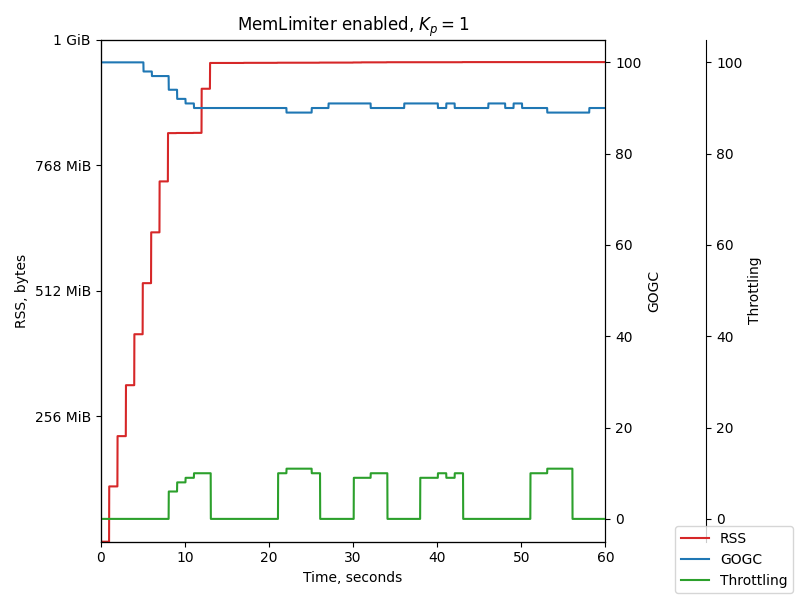
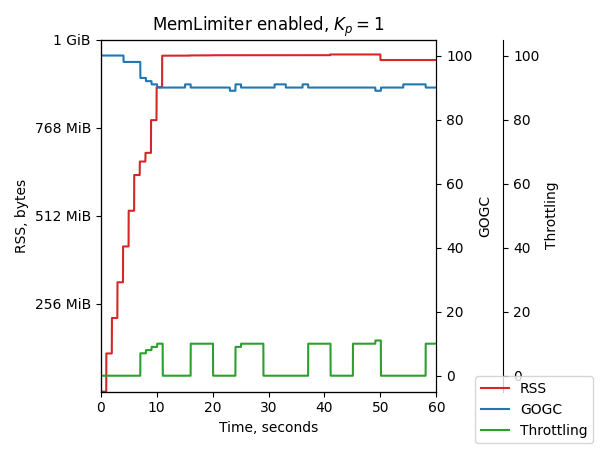
MLN-666 | refactor: more small plots

Changed region(s): [[0.0, 0.0311, 0.99, 0.9956]]

diff --git a/test/allocator/analyze/render.py b/test/allocator/analyze/render.py
@@ -21,7 +21,7 @@ def bytes_major_formatter(x, pos):
 def single_report(report: Report):
     df = report.df
 
-    fig, ax = plt.subplots(figsize=(8, 6))
+    fig, ax = plt.subplots(figsize=(6, 4.5))
     ax.set_xlim(0, 60)
 
     ax.set_xlabel('Time, seconds')

diff --git a/README.md b/README.md
@@ -85,6 +85,8 @@ There are several key settings in MemLimiter [configuration](controller/nextgc/c
 * `RSSLimit`
 * `DangerZoneGC` 
 * `DangerZoneThrottling` 
+* `Period`
+* `WindowSize`
 * `Coefficient` ($K_{p}$)
 
 You have to pick them empirically for your service. The settings must correspond to the business logic features of a particular service and to the workload expected.
@@ -95,7 +97,9 @@ Settings ranges:
 * $RSS_{limit} == {1G}$
 * $DangerZoneGC == 50%$
 * $DangerZoneThrottling == 90%$
-* $K_{p} \in {0, 1, 5, 10, 50, 100}$
+* $Period == 100ms$
+* $WindowSize == 20$
+* $K_{p} \in \{0, 1, 5, 10, 50, 100\}$
 
 These plots may give you some inspiration on how $K_{p}$ value affects the physical memory consumption other things being equal:
 
@@ -108,7 +112,7 @@ These plots may give you some inspiration on how $K_{p}$ value affects the physi
 
 And the summary plot with RSS consumption depending on $K_{p}$ value:
 
-![RSS](docs/rss_pivot.png)
+![RSS](docs/rss.png)
 
 The general conclusion is that:
 * Disabling MemLimiter causes OOM;
